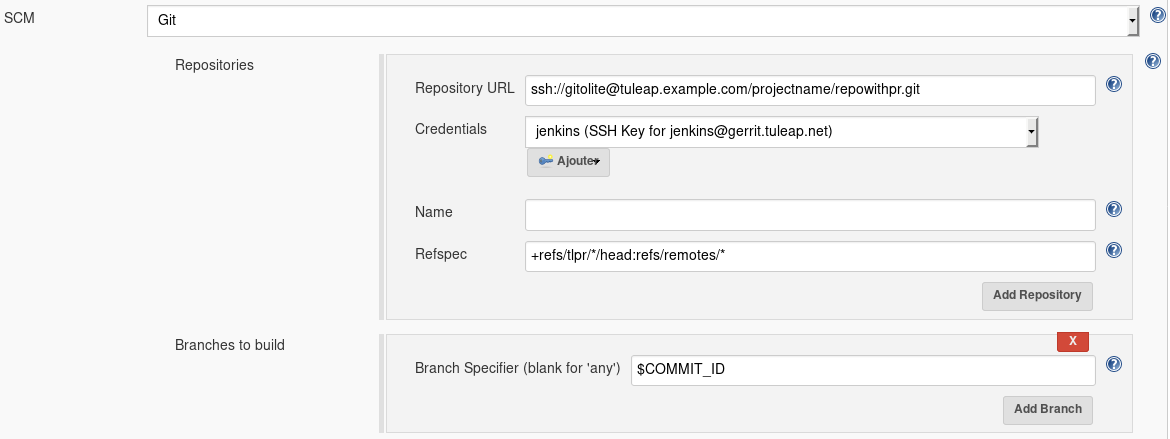
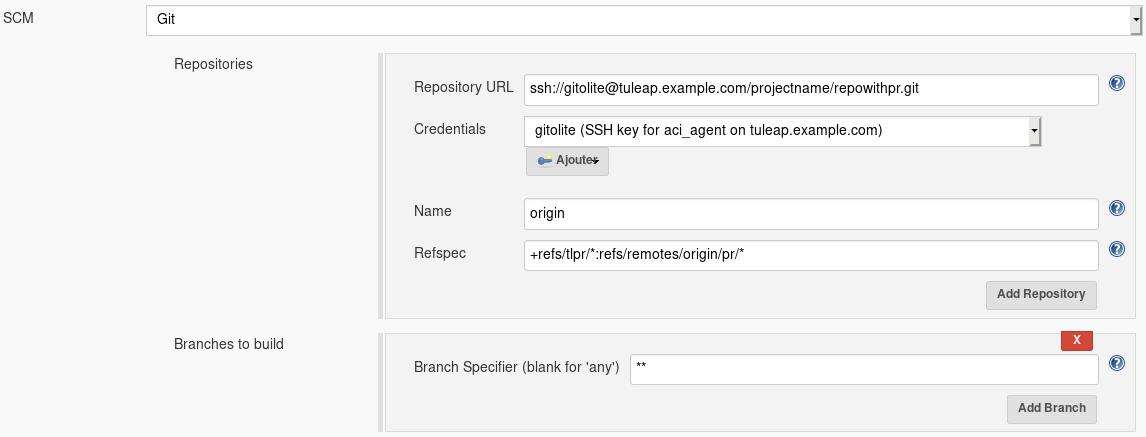
Update information about the setup of a Jenkins job to work with the PR plugin

diff --git a/languages/en/user-guide/pullrequest.rst b/languages/en/user-guide/pullrequest.rst
@@ -353,8 +353,8 @@ You need to configure Jenkins webhook as described in the  :ref:`git documentati
 
 
 To trigger a new build each time a pull request is created or updated, set the
-refspec to ``+refs/tlpr/*/head:refs/remotes/*`` and the branch specifier to
-``$COMMIT_ID``.
+name to ``origin``, the refspec to ``+refs/tlpr/*:refs/remotes/origin/pr/*`` and
+the branch specifier to ``**``.
 
 .. figure:: ../images/screenshots/pullrequest/jenkins-job-setup.png
       :align: center
